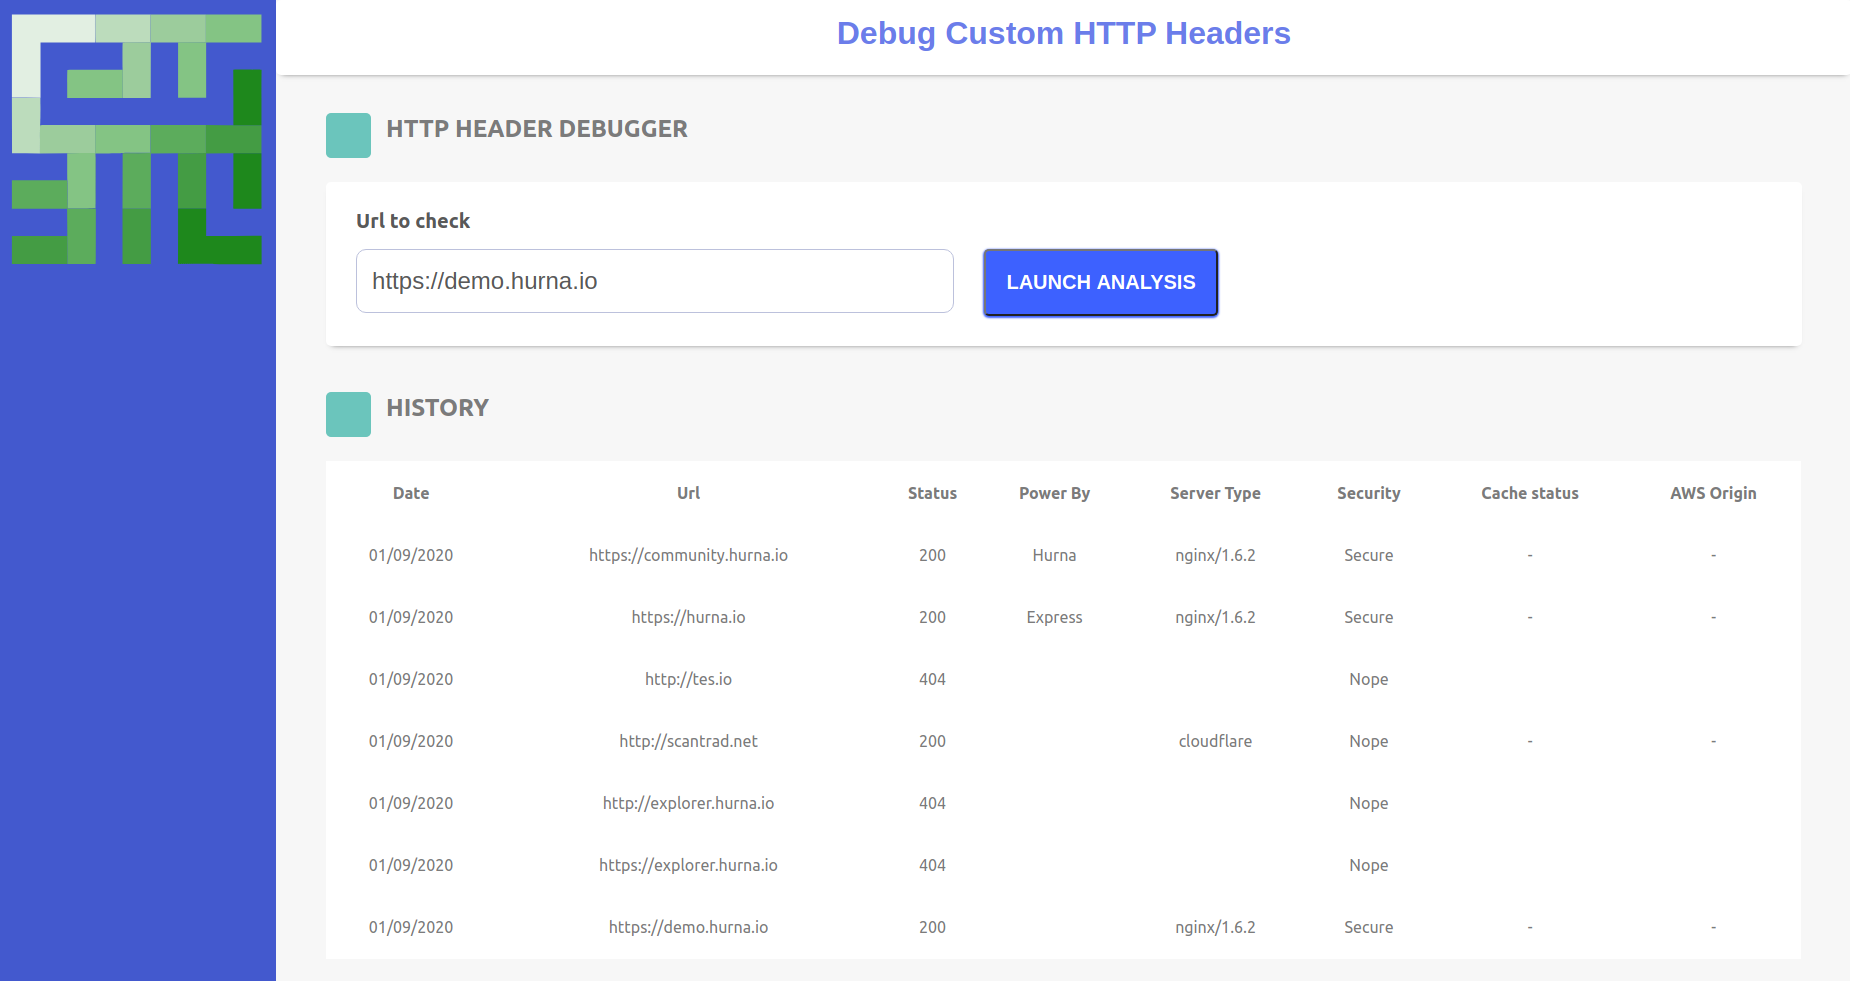
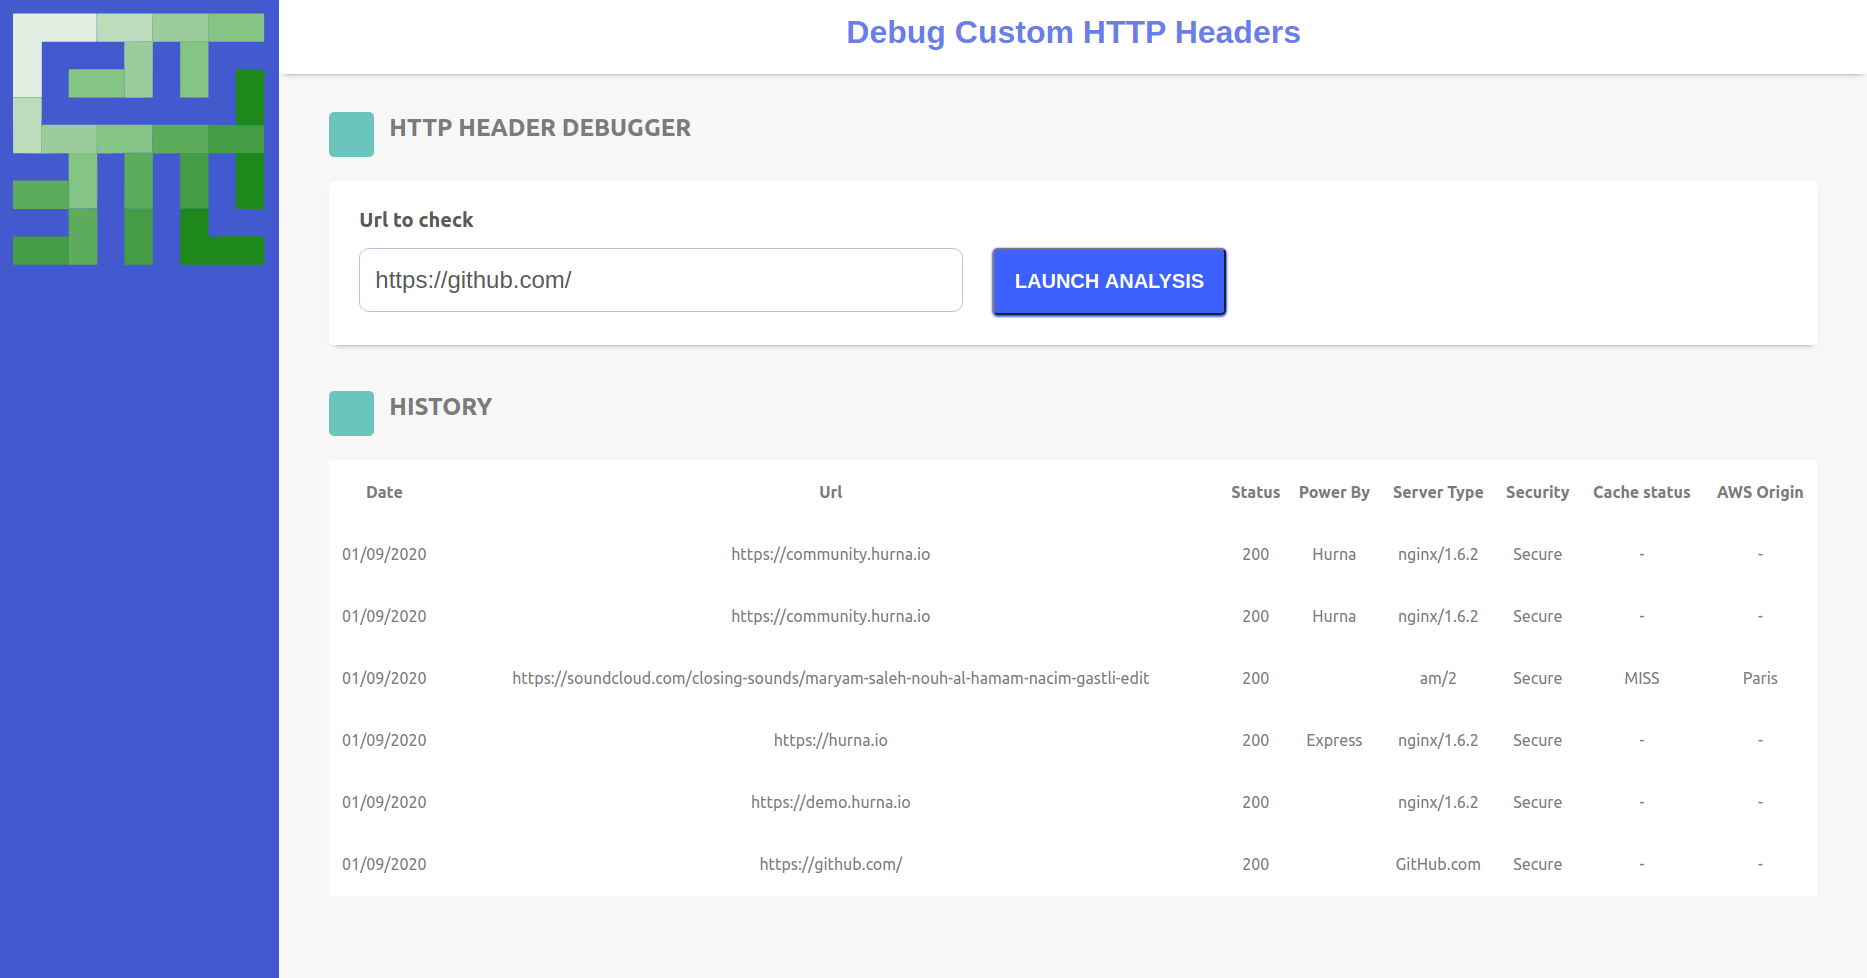
OPT: Generate random key for each request Id
- Update readme for testing
- Use the key keyword

diff --git a/src/components/HistoryTable/row.tsx b/src/components/HistoryTable/row.tsx
@@ -4,7 +4,7 @@ import { IProps } from './index';
 export default function Row(props: IProps) {
   if (props.isLoading) {
     return (
-      <tr>
+      <tr key={props.reqId}>
         <td>{props.reqDate}</td>
         <td>{props.reqUrl}</td>
         <td>loading...</td>
@@ -12,7 +12,7 @@ export default function Row(props: IProps) {
     );
   } else if (props.isError) {
     return (
-      <tr>
+      <tr key={props.reqId}>
         <td>{props.reqDate}</td>
         <td>{props.reqUrl}</td>
         <td>error</td>
@@ -21,7 +21,7 @@ export default function Row(props: IProps) {
   }
 
   return (
-    <tr>
+    <tr key={props.reqId}>
       <td>{props.reqDate}</td>
       <td>{props.reqUrl}</td>
       <td>{props.data?.statusCode}</td>

diff --git a/src/containers/Dashboard/index.tsx b/src/containers/Dashboard/index.tsx
@@ -17,7 +17,6 @@ import Section from './Section';
 
 const APIURL = '/api/getHeader?url='; // todo use a config file
 const initialState: State[] = [];
-let reqId = 0; // Todo --> use crypto rand instead
 
 export default function Dashboard(props: RouteProps) {
   const [url, setUrl] = useState('');
@@ -25,7 +24,7 @@ export default function Dashboard(props: RouteProps) {
 
   // Retrieve HTTP Header using axios
   const getHeader = async (uri: string) => {
-    let curId = reqId++;
+    let curId = Math.random().toString(36).substring(7);
     dispatch({ reqId: curId, reqUrl: uri, type: 'PENDING' });
     try {
       const axiosPromise: AxiosPromise<any> = axios.get(window.location.origin + APIURL + uri);

diff --git a/src/containers/Dashboard/reducer.tsx b/src/containers/Dashboard/reducer.tsx
@@ -9,12 +9,12 @@
 import { getCurDate } from '../../utils';
 
 export type Action =
-    { type: 'PENDING'; reqId: number, reqUrl: string }
-  | { type: 'SUCCESS'; reqId: number; payload: any }
-  | { type: 'ERROR'; reqId: number  };
+    { type: 'PENDING'; reqId: string, reqUrl: string }
+  | { type: 'SUCCESS'; reqId: string; payload: any }
+  | { type: 'ERROR'; reqId: string  };
 
 export interface State {
-  reqId: number;
+  reqId: string;
   reqDate: string;
   reqUrl: string;
   isLoading: boolean;

diff --git a/src/components/HistoryTable/index.tsx b/src/components/HistoryTable/index.tsx
@@ -18,7 +18,7 @@ interface IData {
  * @ignore
  */
 export interface IProps {
-  reqId: number;
+  reqId: string;
   reqDate: string;
   reqUrl: string;
   isLoading: boolean;

diff --git a/README.md b/README.md
@@ -20,7 +20,10 @@ HTTP responses sent by some service provider contain special headers:
 2.  Clone this repo using `git clone https://github.com/michael-jeulinl/HTTP-Headers-Status.git`
 3.  Run `npm install` in order to install dependencies and clean the git repo.<br />
 4.  Run `npm run-script build` in order to build the app
-5.  _At this point you can run `npm start` to see the example app at `http://localhost:3000`._
+5.  _At this point you can run `npm start` to see the example app at `http://localhost:3000`.
+
+## Quick start
+1. Run `npm test` in order to launch all the tests.
 
 ## Documentation
 ### ** Backend part **
